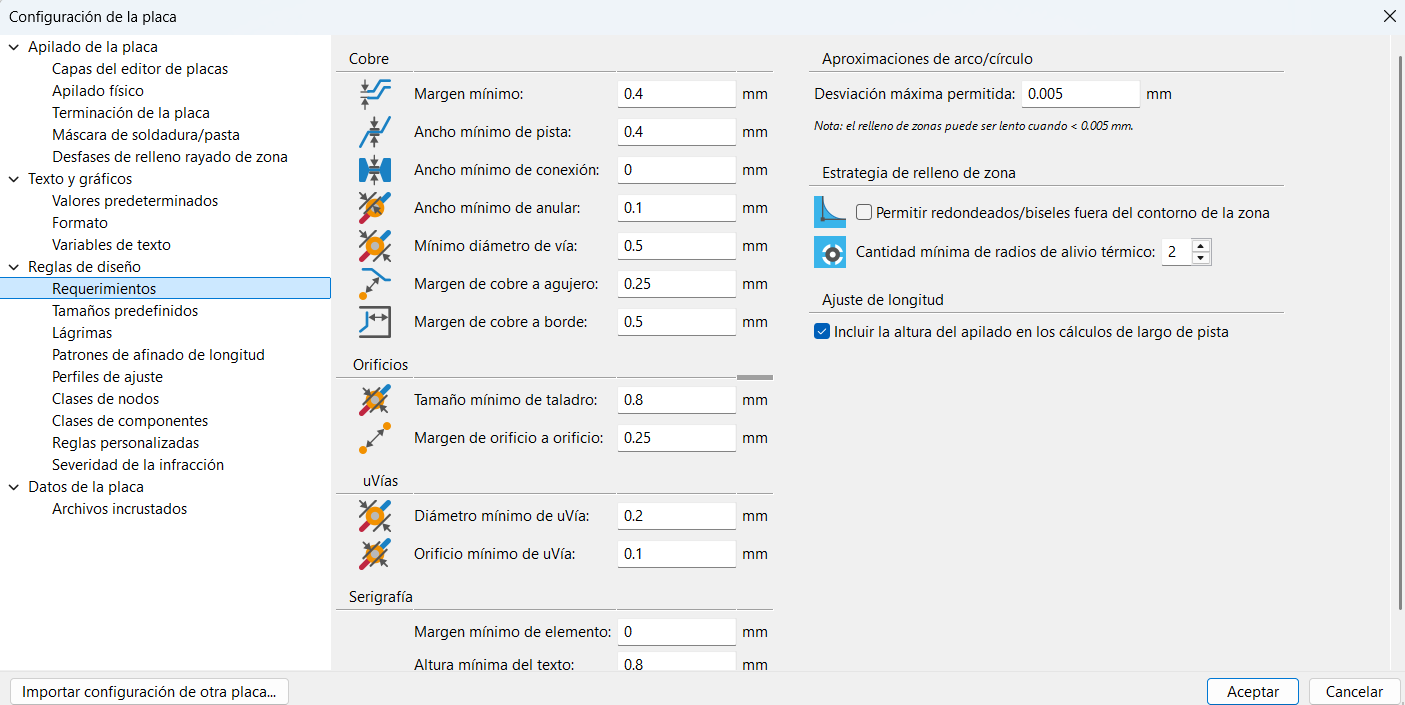
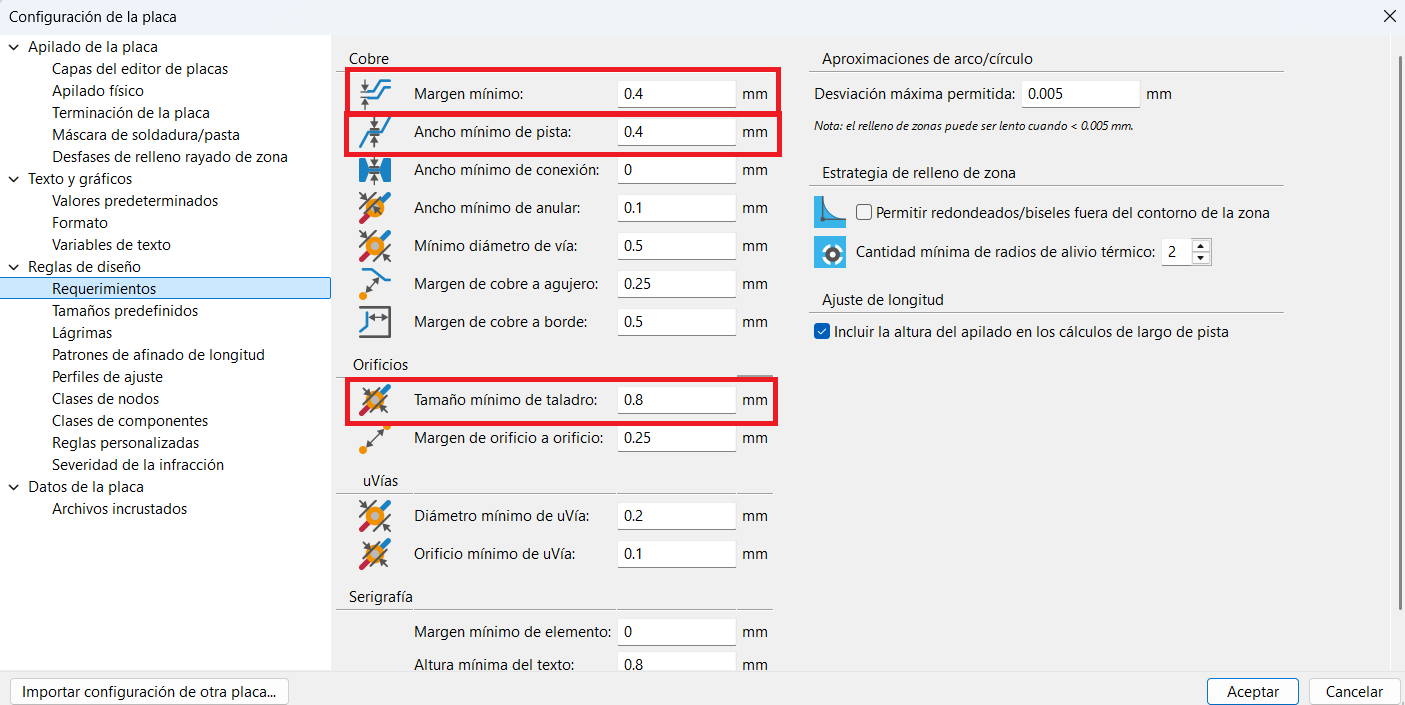
Restricciones

Changed region(s): [[0.2448, 0.0936, 0.5815, 0.2496], [0.2448, 0.5305, 0.5509, 0.6241]]

diff --git a/KiCad.html b/KiCad.html
@@ -762,19 +762,20 @@
         <h2 class="section-title"> <span class="texto-amarillo">Paso 3</span></h2>
 
         <div class="tarjeta-destacada">
-            <img src="imgs/Mesa_Placa.png" alt="Botón para cambiar entre editores">
-            <div class="tarjeta-destacada-texto">
-                <p>Así es cómo se ve la mesa de trabajo de Editor de Placas</p>
-            </div>
-        </div>
-
-        <div class="tarjeta-destacada">
             <img src="imgs/CambioEd.png" alt="Botón para cambiar entre editores">
             <div class="tarjeta-destacada-texto">
                 <h3><span class="texto-amarillo">Botón para cambiar entre editores</span></h3>
                 <p>Este botón se encuentra en la parte superior derecha del Editor de esquemas. Una vez que acabemos todo lo necesario en el esquemático, le damos clic para que nos mande al Editor de placas.</p>
             </div>
         </div>
+
+        <div class="tarjeta-destacada">
+            <img src="imgs/Mesa_Placa.png" alt="Botón para cambiar entre editores">
+            <div class="tarjeta-destacada-texto">
+                <p>Así es cómo se ve la mesa de trabajo de Editor de Placas</p>
+            </div>
+        </div>
+
 
         <div class="screenshot-container reverse">
             <!-- Carrusel adaptado -->
@@ -793,6 +794,25 @@
                 <p>Establecimos una distancia mínima entre los conductores de 0.4 mm, este parámetro asegura un diseño conforme al material utilizado de la placa.
                     Igualmente agregamos el ancho de 2.0 mm para las lineas que representan el corte del borde de nuestra placa.
                 </p>
+            </div>
+        </div>
+
+        <div class="screenshot-container reverse">
+            <!-- Carrusel adaptado -->
+            <div class="mini-carrusel carrusel-captura">
+                <img src="imgs/Restriccion1.png" class="mini-slide activo" alt="Restricciones de la fresadora">
+                <!-- Cambia 'Restricciones2.png' por el nombre de tu segunda imagen -->
+                <img src="imgs/Restriccion2.png" class="mini-slide" alt="Segunda captura de restricciones">
+                <button class="mini-btn prev" onclick="moverMini(this, -1)">&#10094;</button>
+                <button class="mini-btn next" onclick="moverMini(this, 1)">&#10095;</button>
+            </div>
+
+            <div class="screenshot-info">
+                <h3><span class="texto-amarillo">Confirmación de restricciones</span></h3>
+                <p>Restricción 1: Margen Mínimo</p>
+                <p>La primera restricción es para poner la separecación mínima que querramos entre pistas, como se puede ver en la primera imagen</p>
+                <p>Restrcción 2: Ancho mínimo de pista</p>
+                <p>La segunda restricción nos indica el ancho mínimo para las pistas que conectan los componentes</p>
             </div>
         </div>
 
